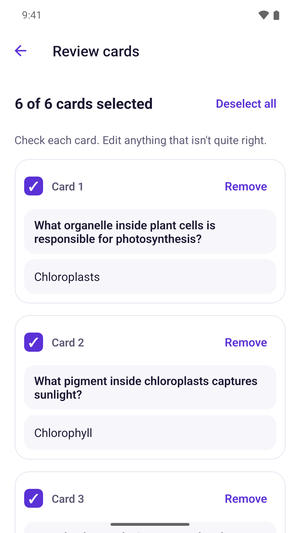
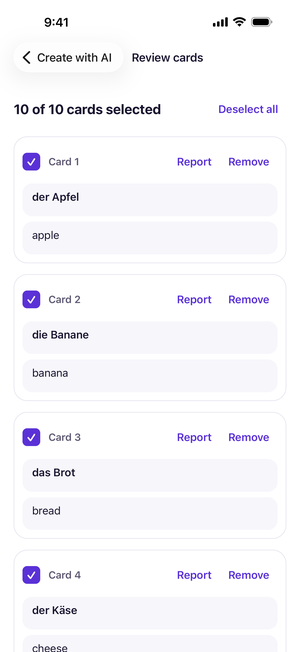
readme: on the app store

diff --git a/README.md b/README.md
@@ -11,24 +11,30 @@
 
 <p align="center">
   <img src="media/home.png" width="200" alt="Home: one Study button and your decks">
-  <img src="media/study.png" width="200" alt="Studying a card with Forgot and Got it">
+  <img src="media/study.png" width="200" alt="A typed answer checked, with Hard suggested">
   <img src="media/ai-review.png" width="200" alt="Checking cards made by AI">
   <img src="media/stats.png" width="200" alt="Statistics with a daily streak">
 </p>
 
-<p align="center"><b>Android:</b> in testing on Google Play · <b>iPhone:</b> coming soon</p>
+<p align="center">
+  <b>iPhone:</b> <a href="https://apps.apple.com/app/id6822104894">App Store</a> ·
+  <b>Android:</b> in testing on Google Play ·
+  <b>Web:</b> <a href="https://recapflashcards.com">recapflashcards.com</a>
+</p>
 
 ## Remember more, study less
 
 - **Spaced repetition with FSRS**, a modern, research-based memory algorithm. Cards come back right
   before you would forget them.
-- **Active recall:** see the question, think of the answer, then tap **Forgot** or **Got it**. Each
-  button shows when you'll see the card again.
+- **Active recall:** type the answer and Recap checks it, spots typos, and suggests **Again**,
+  **Hard**, **Good** or **Easy**. Each button shows when you'll see the card again. Long answers
+  are shown with a tap instead, and Settings can switch to two buttons.
 - **One big Study button** shows everything that's due. No settings to learn first.
 
 ## Make cards in seconds with AI
 
 - Paste your notes, snap a photo of a textbook page, add a PDF, or just type a topic.
+- Cards in any two languages, like German words with English meanings. The AI writes math too.
 - Check every card before you save it: edit or remove anything that isn't right, or report a card
   that's wrong or offensive.
 - Exam soon? Go from notes to a full deck in a minute.
@@ -47,10 +53,12 @@
 
 ## Made for real studying
 
-- Ready-made decks in the Library (IELTS and SAT vocabulary, world capitals), plus your own for
-  languages, biology, history, medicine and more.
+- Ready-made decks in the Library (English basics, IELTS, SAT and TOEIC vocabulary, world
+  capitals), plus your own for languages, biology, history, medicine and more.
 - Decks inside decks (like "Biology › Cells") to keep things tidy.
-- Pictures on cards, and cards read aloud in English or Vietnamese.
+- Cards read aloud in 12 languages, set once for each deck.
+- Math on cards: fractions, roots and powers with "+ Math", no LaTeX needed. Pictures too.
+- Light or dark, following your phone. The app is in English and Vietnamese.
 - Deleted decks can be restored for 30 days.
 
 ## Private by design
@@ -67,7 +75,7 @@ For anyone reading the code:
 
 | Part | What's inside |
 | --- | --- |
-| [`app/`](app) | The phone app: Expo (React Native) + TypeScript, Expo Router. Everything is stored on the device in SQLite (Drizzle ORM); scheduling uses [ts-fsrs](https://github.com/open-spaced-repetition/ts-fsrs). Text in photos is read on the device. |
+| [`app/`](app) | The phone app for Android and iPhone: Expo (React Native) + TypeScript, Expo Router. Everything is stored on the device in SQLite (Drizzle ORM); scheduling uses [ts-fsrs](https://github.com/open-spaced-repetition/ts-fsrs). Text in photos is read on the device. |
 | [`app/`](app) on the web | The same app at [recapflashcards.com](https://recapflashcards.com) (Expo web, on Cloudflare Pages); cards stay in the browser. Help and the privacy policy are plain pages in [`app/public/`](app/public). |
 | [`server/`](server) | A small FastAPI service that only makes AI cards: it sends the user's text to Google's Gemini API, with a daily limit per device. |
 
